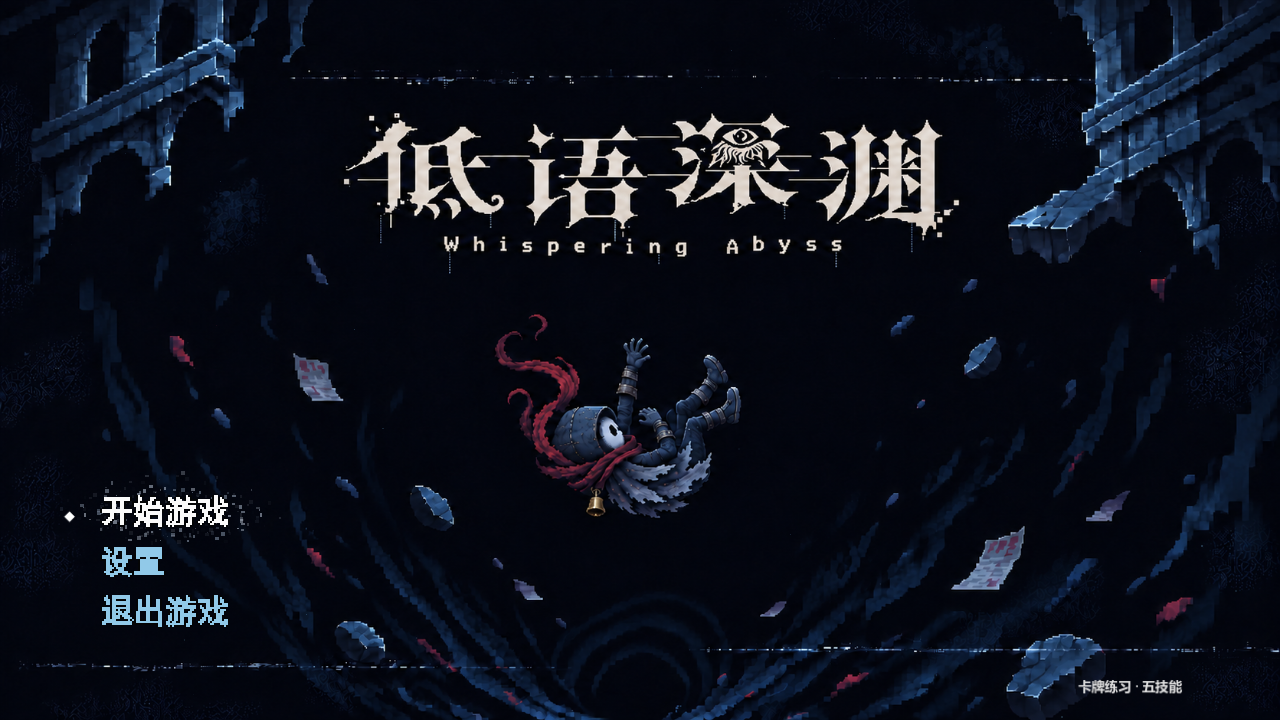
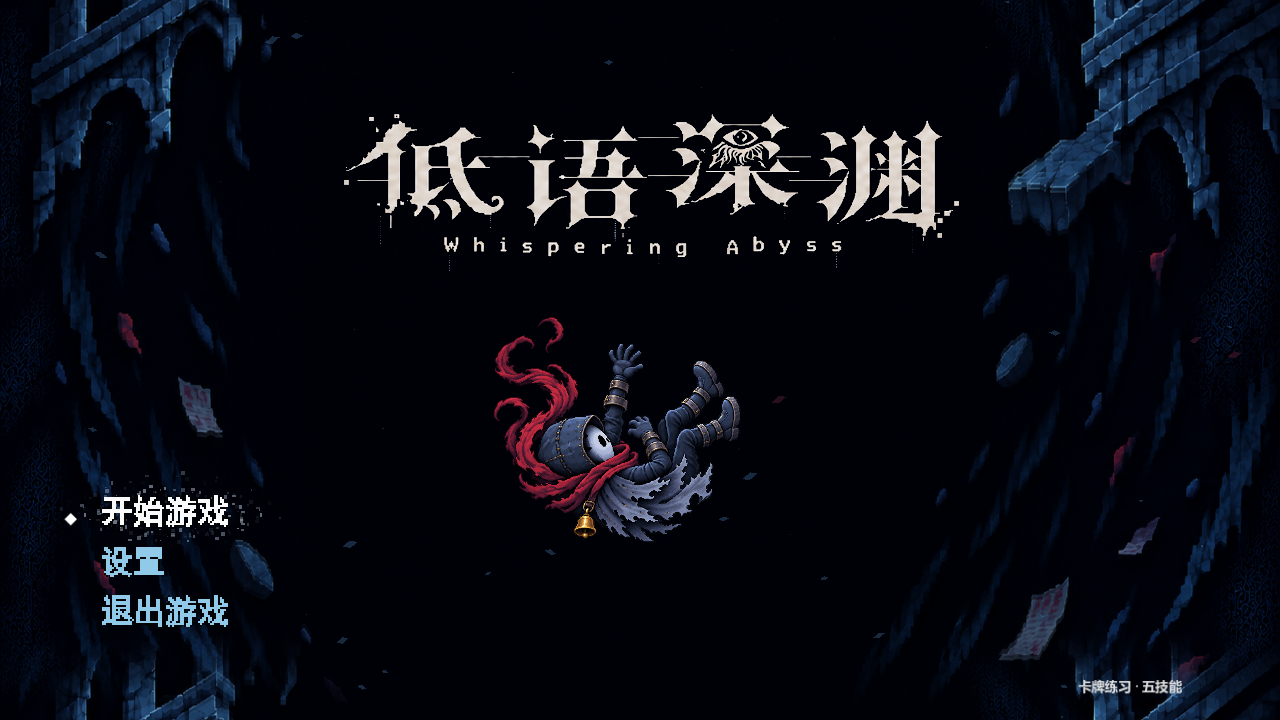
Separate falling hero and add upward scrolling abyss parallax

diff --git a/assets/menu/ASSET_SOURCES.md b/assets/menu/ASSET_SOURCES.md
@@ -1,5 +1,14 @@
 # 启动界面
 
+## 下坠视差分层
+
+- `abyss_loop.png`：基于启动画面，经内置 image_gen 移除人物与标题，补成无封底的深渊长井背景。
+- `falling_hero.png`：内置 image_gen 提取的人物透明 PNG，保留坠落姿势、红围巾和铃铛。
+- 标题使用原 `title_clean.png` 的标题区域，通过运行时 AtlasTexture 与透明遮罩单独显示，避免重绘字体。
+- `scripts/title_fall.gd`：远景与墙体分别按 0.010 / 0.027 周期每秒向上滚动，近处碎屑以 32–105 逻辑像素/秒上升；人物漂移约 7 像素，摆动约 1.6 度，标题与交互菜单固定。
+- `shaders/title_scroll.gdshader`：循环采样与末端过渡混合；`shaders/title_logo.gdshader`：标题透明遮罩。
+- 生成提示词见 `falling_prompts.json`。原始静态图保留，运行时改为独立图层组合。
+
 用户提供《低语深渊》启动界面作为美术来源。`title_clean.png` 使用内置 image_gen 仅移除左下角已绘制的三项菜单、菱形与选中光晕，其余标题和构图保留。未覆盖原始素材。
 
 菜单由 Godot 的真实按钮还原，中文字体优先调用系统 SimHei / Microsoft YaHei 并禁用抗锯齿，不打包系统字体。文字以 16px 栅格渲染至透明 SubViewport，经最近邻放大三倍，加入加粗与厚黑描边以模仿参考像素字。其他系统可能使用不同的中文回退字体。漂浮碎屑和选中项周围 220 枚持续散开、回流、淡入淡出的方块由 `scripts/title_dust.gd` 绘制。
